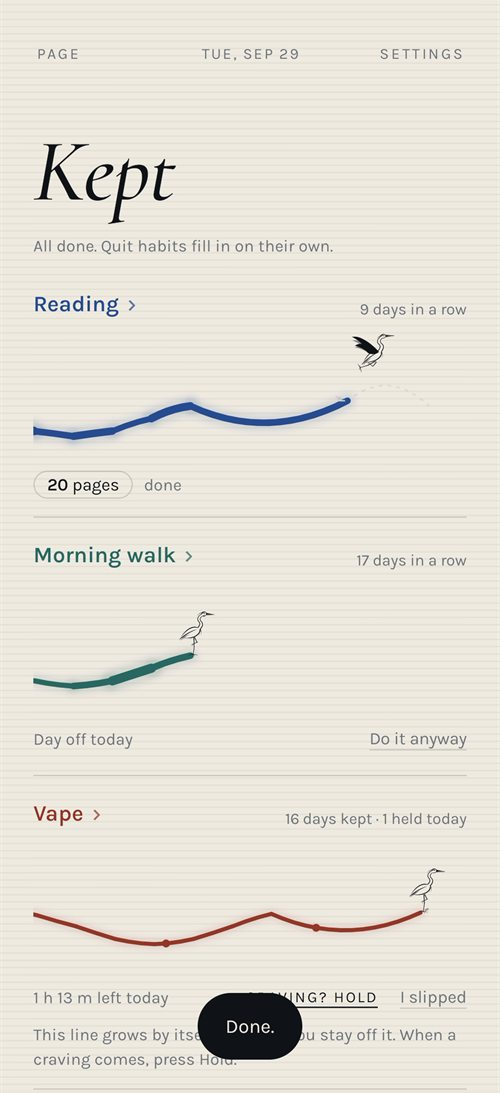
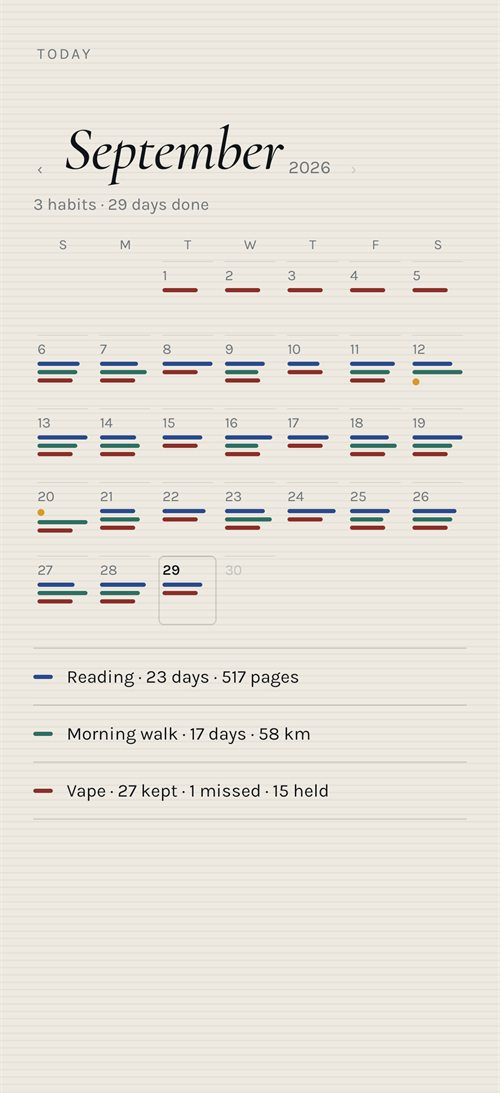
Work: the three phones side by side; Sabr opens on the month view

diff --git a/docs/style.css b/docs/style.css
@@ -189,13 +189,11 @@ h1, h2, h3 { margin: 0; font-weight: inherit; }
 .motif .fill { fill: var(--red); stroke: none; opacity: 1; }
 .film__shot { position: relative; width: 250px; height: auto; border: 1px solid var(--ink); border-radius: 26px; transition: transform .45s var(--ease), box-shadow .45s ease; }
 .film:hover .film__shot { transform: translate(-6px, -6px); box-shadow: 12px 12px 0 var(--ink); }
-/* Three phones: the middle one in front, the two beside it a step back and a little lower. */
-.film__shots { position: relative; display: flex; align-items: center; justify-content: center; width: 100%; max-width: 600px; }
-.film__shots .film__shot { width: 42%; z-index: 1; }
-.film__shots .film__shot--l, .film__shots .film__shot--r { width: 35%; margin: 0 -6%; z-index: 0; translate: 0 7%; border-radius: 22px; }
-.film:hover .film__shots .film__shot--c { transform: translateY(-10px); box-shadow: 10px 10px 0 var(--ink); }
-.film:hover .film__shots .film__shot--l { transform: translateX(-10px); box-shadow: none; }
-.film:hover .film__shots .film__shot--r { transform: translateX(10px); box-shadow: none; }
+/* Three phones side by side, none hiding another; the middle one sits a little higher. */
+.film__shots { position: relative; display: flex; align-items: center; justify-content: center; gap: 3%; width: 100%; max-width: 600px; }
+.film__shots .film__shot { width: 31.3%; border-radius: 20px; }
+.film__shots .film__shot--c { translate: 0 -5%; }
+.film:hover .film__shots .film__shot { transform: translateY(-8px); box-shadow: 8px 8px 0 var(--ink); }
 @media (min-width: 900px) {
   .film:nth-child(even) .film__stage { order: -1; }
   .film:nth-child(even) .film__no { right: auto; left: -2%; }

diff --git a/src/style.css b/src/style.css
@@ -189,13 +189,11 @@ h1, h2, h3 { margin: 0; font-weight: inherit; }
 .motif .fill { fill: var(--red); stroke: none; opacity: 1; }
 .film__shot { position: relative; width: 250px; height: auto; border: 1px solid var(--ink); border-radius: 26px; transition: transform .45s var(--ease), box-shadow .45s ease; }
 .film:hover .film__shot { transform: translate(-6px, -6px); box-shadow: 12px 12px 0 var(--ink); }
-/* Three phones: the middle one in front, the two beside it a step back and a little lower. */
-.film__shots { position: relative; display: flex; align-items: center; justify-content: center; width: 100%; max-width: 600px; }
-.film__shots .film__shot { width: 42%; z-index: 1; }
-.film__shots .film__shot--l, .film__shots .film__shot--r { width: 35%; margin: 0 -6%; z-index: 0; translate: 0 7%; border-radius: 22px; }
-.film:hover .film__shots .film__shot--c { transform: translateY(-10px); box-shadow: 10px 10px 0 var(--ink); }
-.film:hover .film__shots .film__shot--l { transform: translateX(-10px); box-shadow: none; }
-.film:hover .film__shots .film__shot--r { transform: translateX(10px); box-shadow: none; }
+/* Three phones side by side, none hiding another; the middle one sits a little higher. */
+.film__shots { position: relative; display: flex; align-items: center; justify-content: center; gap: 3%; width: 100%; max-width: 600px; }
+.film__shots .film__shot { width: 31.3%; border-radius: 20px; }
+.film__shots .film__shot--c { translate: 0 -5%; }
+.film:hover .film__shots .film__shot { transform: translateY(-8px); box-shadow: 8px 8px 0 var(--ink); }
 @media (min-width: 900px) {
   .film:nth-child(even) .film__stage { order: -1; }
   .film:nth-child(even) .film__no { right: auto; left: -2%; }
